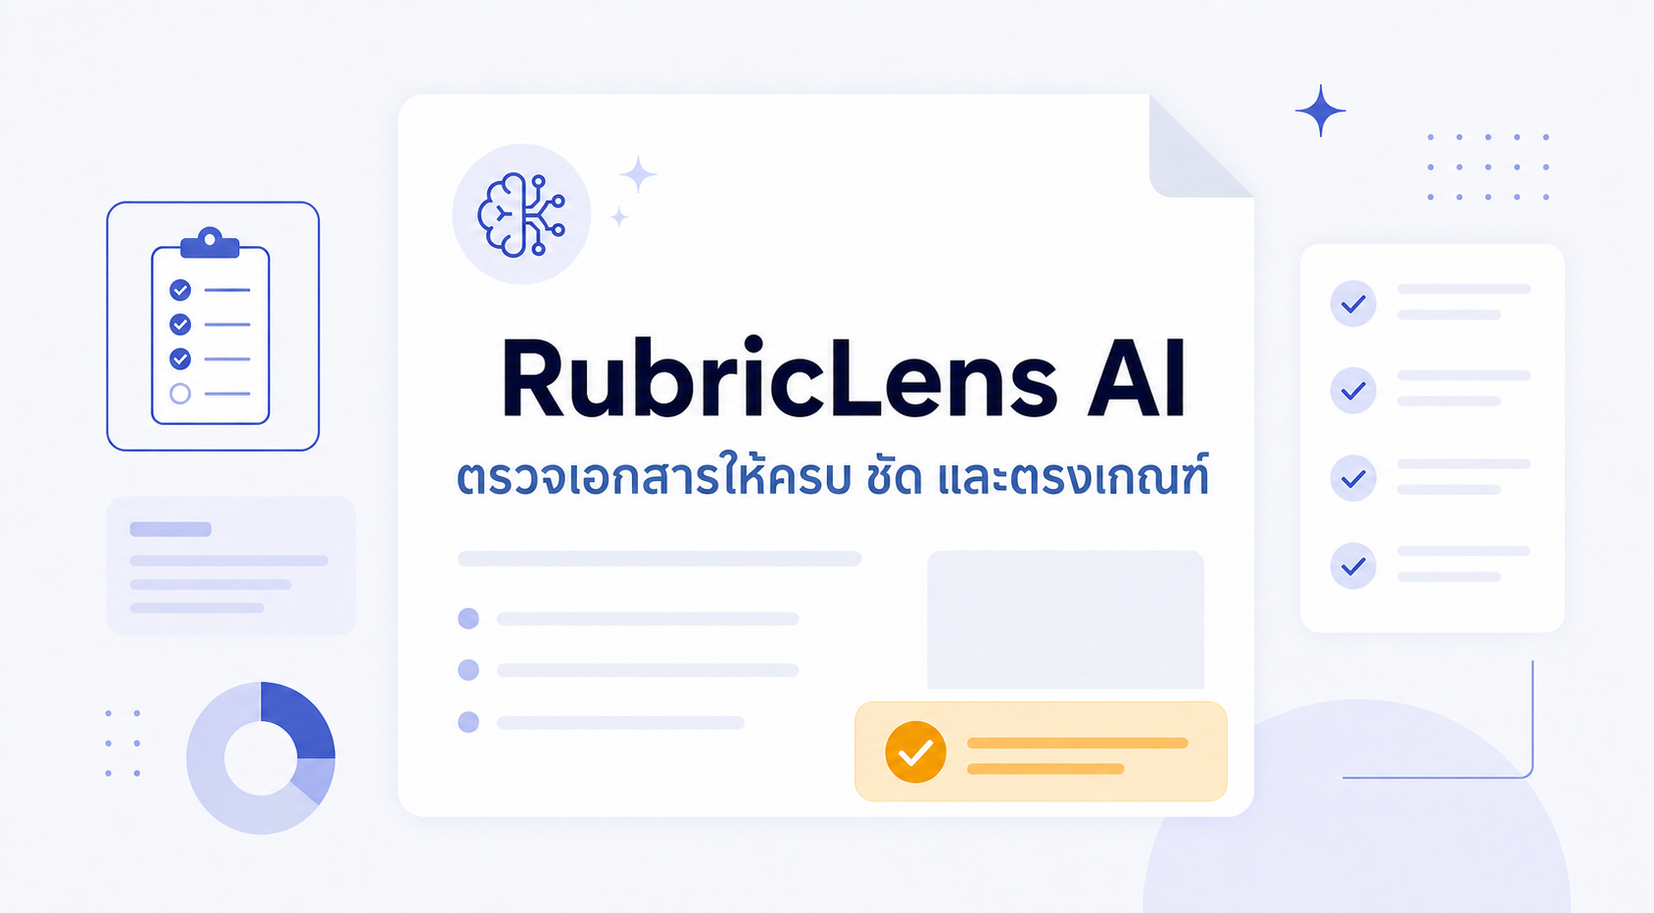
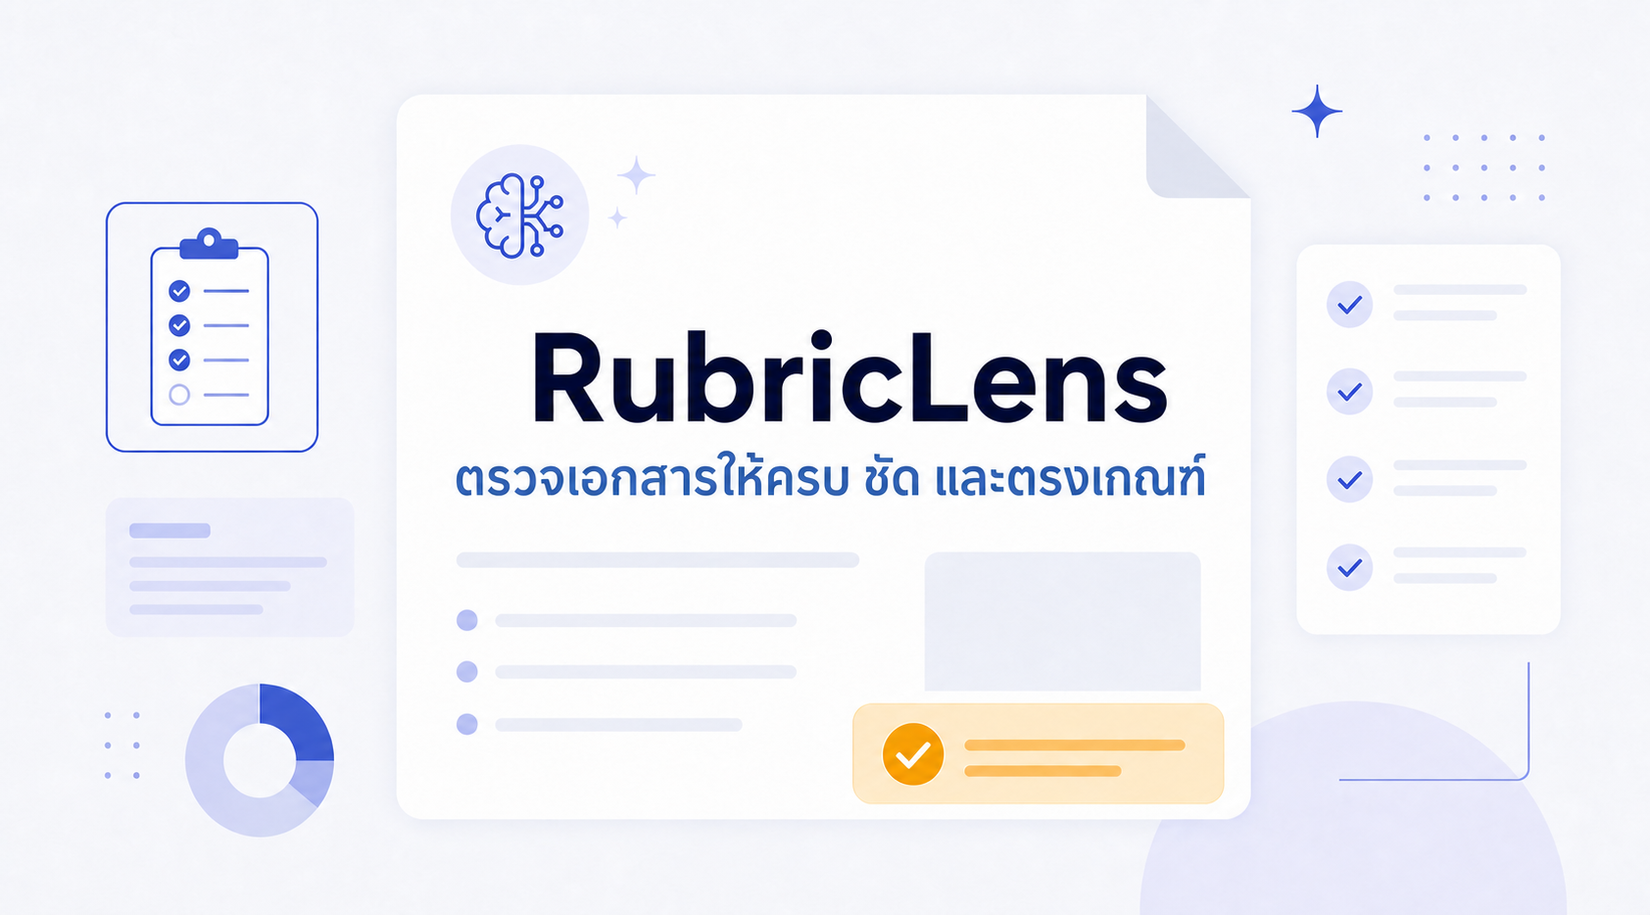
rebrand: rename project to RubricLens

diff --git a/index.html b/index.html
@@ -4,29 +4,29 @@
     <meta charset="UTF-8" />
     <link rel="icon" type="image/svg+xml" href="/favicon.svg" />
     <meta name="viewport" content="width=device-width, initial-scale=1.0" />
-    <meta name="description" content="RubricLens AI ช่วยตรวจรายงานทั่วไป โครงงาน และรายงานวิจัยให้ครบ ชัด และตรงเกณฑ์ พร้อมเหตุผล หลักฐาน และคำแนะนำเบื้องต้น" />
+    <meta name="description" content="RubricLens ช่วยตรวจรายงานทั่วไป โครงงาน และรายงานวิจัยให้ครบ ชัด และตรงเกณฑ์ พร้อมเหตุผล หลักฐาน และคำแนะนำเบื้องต้น" />
     <meta name="robots" content="index, follow" />
     <meta name="theme-color" content="#f8fafc" />
-    <link rel="canonical" href="https://reportcheckxd.pages.dev/" />
+    <link rel="canonical" href="https://rubriclens.pages.dev/" />
     <meta property="og:type" content="website" />
     <meta property="og:locale" content="th_TH" />
-    <meta property="og:site_name" content="RubricLens AI" />
-    <meta property="og:title" content="RubricLens AI — ตรวจเอกสารให้ครบ ชัด และตรงเกณฑ์" />
+    <meta property="og:site_name" content="RubricLens" />
+    <meta property="og:title" content="RubricLens — ตรวจเอกสารให้ครบ ชัด และตรงเกณฑ์" />
     <meta property="og:description" content="ผู้ช่วย AI สำหรับตรวจรายงานทั่วไป โครงงาน และรายงานวิจัยตามเกณฑ์เฉพาะประเภท" />
-    <meta property="og:url" content="https://reportcheckxd.pages.dev/" />
-    <meta property="og:image" content="https://reportcheckxd.pages.dev/og.png" />
-    <meta property="og:image:alt" content="RubricLens AI ตรวจเอกสารให้ครบ ชัด และตรงเกณฑ์" />
+    <meta property="og:url" content="https://rubriclens.pages.dev/" />
+    <meta property="og:image" content="https://rubriclens.pages.dev/og.png" />
+    <meta property="og:image:alt" content="RubricLens ตรวจเอกสารให้ครบ ชัด และตรงเกณฑ์" />
     <meta name="twitter:card" content="summary_large_image" />
-    <meta name="twitter:title" content="RubricLens AI — ตรวจเอกสารให้ครบ ชัด และตรงเกณฑ์" />
+    <meta name="twitter:title" content="RubricLens — ตรวจเอกสารให้ครบ ชัด และตรงเกณฑ์" />
     <meta name="twitter:description" content="ผู้ช่วย AI สำหรับตรวจรายงานทั่วไป โครงงาน และรายงานวิจัยตามเกณฑ์เฉพาะประเภท" />
-    <meta name="twitter:image" content="https://reportcheckxd.pages.dev/og.png" />
-    <title>RubricLens AI | ตรวจเอกสารให้ครบ ชัด และตรงเกณฑ์</title>
+    <meta name="twitter:image" content="https://rubriclens.pages.dev/og.png" />
+    <title>RubricLens | ตรวจเอกสารให้ครบ ชัด และตรงเกณฑ์</title>
     <script type="application/ld+json">
       {
         "@context": "https://schema.org",
         "@type": "WebApplication",
-        "name": "RubricLens AI",
-        "url": "https://reportcheckxd.pages.dev/",
+        "name": "RubricLens",
+        "url": "https://rubriclens.pages.dev/",
         "applicationCategory": "EducationalApplication",
         "operatingSystem": "Web",
         "inLanguage": "th",

diff --git a/src/App.tsx b/src/App.tsx
@@ -19,8 +19,8 @@ import { analyzeReferences } from './lib/references'
 import { cloneRubricTemplate, DEFAULT_RUBRIC_TEMPLATE_ID, getDefaultRubricTemplate, getRubricTemplatesForDocumentType, inferDocumentTypeFromTemplate, rubricSchema, rubricSectionSchema, rubricTemplates, type RubricSection } from './lib/rubric'
 import { DOCUMENT_TYPES, documentTypeDefinitions, getDocumentTypeDefinition, type DocumentType } from '../shared/document-types'
 
-const DRAFT_KEY = 'report-checker-session-draft-v1'
-const PRODUCTION_API_BASE_URL = 'https://report-checker-ai-api.oomzazato01.workers.dev/api'
+const DRAFT_KEY = 'rubriclens-session-draft-v1'
+const PRODUCTION_API_BASE_URL = 'https://rubriclens-api.oomzazato01.workers.dev/api'
 
 function usesMockAnalysis() {
   const configured = import.meta.env.VITE_USE_MOCK_ANALYSIS
@@ -69,7 +69,7 @@ const stateLabels: Record<AnalysisState, string> = {
 const analysisSteps = ['ตรวจขนาดเอกสาร', 'เตรียมเกณฑ์การตรวจ', 'ส่งข้อมูลผ่านระบบที่ปลอดภัย', 'AI อ่านเอกสาร', 'ตรวจความครบถ้วนของคำตอบ', 'รวมผลแต่ละหัวข้อ', 'คำนวณคะแนนรวม']
 
 function getAnonymousToken() {
-  const key = 'report-checker-anonymous-token'
+  const key = 'rubriclens-anonymous-token'
   const token = crypto.randomUUID()
   try {
     const existing = window.localStorage.getItem(key)
@@ -543,7 +543,7 @@ function App() {
       <div className="mx-auto max-w-5xl px-4 py-5 sm:px-6 sm:py-8">
         <header className="mb-5 flex flex-col gap-3 border-b border-slate-200 pb-4 sm:flex-row sm:items-center sm:justify-between">
           <div className="min-w-0">
-            <h1 className="text-2xl font-semibold tracking-tight text-slate-950 sm:text-3xl">RubricLens AI</h1>
+            <h1 className="text-2xl font-semibold tracking-tight text-slate-950 sm:text-3xl">RubricLens</h1>
             <p className="mt-1 max-w-2xl text-sm leading-6 text-slate-600 sm:text-base sm:leading-7"><span className="font-medium text-slate-800">ตรวจเอกสารให้ครบ ชัด และตรงเกณฑ์</span> — รองรับรายงานทั่วไป โครงงาน และรายงานวิจัย</p>
           </div>
           <div className="flex flex-wrap items-center gap-2">

diff --git a/worker/src/index.test.ts b/worker/src/index.test.ts
@@ -156,14 +156,14 @@ describe('POST /api/analyze', () => {
   })
 
   it('allows browser CORS only for the configured Pages origins', async () => {
-    const env = { MOCK_ANALYSIS: 'true', ALLOWED_ORIGIN: 'https://reportcheckxd.pages.dev' } satisfies AnalysisEnv
-    const allowed = await worker.fetch(new Request('https://local.test/api/analyze', { method: 'OPTIONS', headers: { Origin: 'https://reportcheckxd.pages.dev' } }), env)
-    const preview = await worker.fetch(new Request('https://local.test/api/analyze', { method: 'OPTIONS', headers: { Origin: 'https://abc123.reportcheckxd.pages.dev' } }), env)
+    const env = { MOCK_ANALYSIS: 'true', ALLOWED_ORIGIN: 'https://rubriclens.pages.dev' } satisfies AnalysisEnv
+    const allowed = await worker.fetch(new Request('https://local.test/api/analyze', { method: 'OPTIONS', headers: { Origin: 'https://rubriclens.pages.dev' } }), env)
+    const preview = await worker.fetch(new Request('https://local.test/api/analyze', { method: 'OPTIONS', headers: { Origin: 'https://abc123.rubriclens.pages.dev' } }), env)
     const oldPagesDomain = await worker.fetch(new Request('https://local.test/api/analyze', { method: 'OPTIONS', headers: { Origin: 'https://reportzcheckxai.pages.dev' } }), env)
     const rejected = await worker.fetch(new Request('https://local.test/api/analyze', { method: 'OPTIONS', headers: { Origin: 'https://untrusted.example' } }), env)
-    expect(allowed.headers.get('access-control-allow-origin')).toBe('https://reportcheckxd.pages.dev')
+    expect(allowed.headers.get('access-control-allow-origin')).toBe('https://rubriclens.pages.dev')
     expect(allowed.headers.get('access-control-allow-headers')).toContain(API_VERSION_HEADER.toLowerCase())
-    expect(preview.headers.get('access-control-allow-origin')).toBe('https://abc123.reportcheckxd.pages.dev')
+    expect(preview.headers.get('access-control-allow-origin')).toBe('https://abc123.rubriclens.pages.dev')
     expect(oldPagesDomain.headers.get('access-control-allow-origin')).toBeNull()
     expect(rejected.headers.get('access-control-allow-origin')).toBeNull()
   })

diff --git a/src/App.test.tsx b/src/App.test.tsx
@@ -115,18 +115,18 @@ describe('App', () => {
   })
 
   it('restores a draft only from the current browser session', () => {
-    window.sessionStorage.setItem('report-checker-session-draft-v1', JSON.stringify({
+    window.sessionStorage.setItem('rubriclens-session-draft-v1', JSON.stringify({
       reportText: 'ร่างรายงานในแท็บนี้', templateId: 'project-th-v1',
       rubric: [{ id: 'intro', title: 'บทนำ', criteria: 'มีบริบท', weight: 1, enabled: true }],
     }))
     render(<App />)
     expect(screen.getByLabelText('ข้อความเอกสาร')).toHaveValue('ร่างรายงานในแท็บนี้')
     expect(screen.getByLabelText('ประเภทงาน')).toHaveValue('project')
-    expect(window.localStorage.getItem('report-checker-session-draft-v1')).toBeNull()
+    expect(window.localStorage.getItem('rubriclens-session-draft-v1')).toBeNull()
   })
 
   it('repairs a draft whose document type contradicts its known template', () => {
-    window.sessionStorage.setItem('report-checker-session-draft-v1', JSON.stringify({
+    window.sessionStorage.setItem('rubriclens-session-draft-v1', JSON.stringify({
       reportText: 'ร่างที่บันทึกจากสถานะไม่สอดคล้อง',
       documentType: 'research-report',
       templateId: 'project-th-v1',
@@ -141,7 +141,7 @@ describe('App', () => {
   })
 
   it('replaces an unknown saved template and its stale rubric with the document-type default', async () => {
-    window.sessionStorage.setItem('report-checker-session-draft-v1', JSON.stringify({
+    window.sessionStorage.setItem('rubriclens-session-draft-v1', JSON.stringify({
       reportText: 'ร่างจากเกณฑ์รุ่นที่เลิกใช้แล้ว',
       documentType: 'research-report',
       templateId: 'retired-research-template',

diff --git a/src/lib/analysis.test.ts b/src/lib/analysis.test.ts
@@ -20,7 +20,7 @@ describe('analysis result handling', () => {
     const result = createMockAnalysis(rubric.sections, analyzeReferences('บทนำ'), rubric.version, rubric.documentType)
     const text = formatAnalysisResult(result)
     expect(text).toContain('คะแนนรวม:')
-    expect(text).toContain('ผลตรวจรายงานทั่วไป จาก RubricLens AI')
+    expect(text).toContain('ผลตรวจรายงานทั่วไป จาก RubricLens')
     expect(text).toContain('ประเภทงาน: รายงานทั่วไป')
     expect(text).toContain('ความสอดคล้องของเอกสาร (วัตถุประสงค์ · เนื้อหา · การวิเคราะห์ · สรุปผล):')
     expect(text).toContain('ข้อมูลหรือหลักฐานที่อาจยังขาด:')
@@ -30,7 +30,7 @@ describe('analysis result handling', () => {
   it('names the project document type and its own consistency dimensions in the export', () => {
     const rubric = cloneRubricTemplate('project-th-v1')
     const text = formatAnalysisResult(createMockAnalysis(rubric.sections, analyzeReferences('บทนำ'), rubric.version, rubric.documentType))
-    expect(text).toContain('ผลตรวจโครงงาน จาก RubricLens AI')
+    expect(text).toContain('ผลตรวจโครงงาน จาก RubricLens')
     expect(text).toContain('ประเภทงาน: โครงงาน')
     expect(text).toContain('ความสอดคล้องของเอกสาร (ปัญหา · วัตถุประสงค์ · วิธีทำ · ผลงาน · การทดสอบ · สรุปผล):')
   })

diff --git a/e2e/report-checker.spec.ts b/e2e/report-checker.spec.ts
@@ -52,7 +52,7 @@ test.beforeEach(async ({ page }) => {
 })
 
 test('a user sends text for analysis with one primary click', async ({ page }) => {
-  await expect(page.getByRole('heading', { name: 'RubricLens AI', level: 1 })).toBeVisible()
+  await expect(page.getByRole('heading', { name: 'RubricLens', level: 1 })).toBeVisible()
   await expect(page.getByText(/ตรวจเอกสารให้ครบ ชัด และตรงเกณฑ์/)).toBeVisible()
   await page.getByLabel('ข้อความเอกสาร').fill('บทนำ\nรายงานทดสอบสำหรับ browser smoke test ซึ่งมีรายละเอียดเพียงพอสำหรับตรวจเส้นทางการใช้งานตั้งแต่ต้นจนจบ')
   await page.getByRole('button', { name: 'ตรวจรายงาน' }).click()

diff --git a/src/lib/analysis.ts b/src/lib/analysis.ts
@@ -227,7 +227,7 @@ export function createMockAnalysis(sections: RubricSection[], referenceSummary: 
 export function formatAnalysisResult(result: AnalysisResult) {
   const documentType = getDocumentTypeDefinition(result.documentType)
   const lines = [
-    `${documentType.resultTitle} จาก RubricLens AI (ผลเบื้องต้น)`,
+    `${documentType.resultTitle} จาก RubricLens (ผลเบื้องต้น)`,
     `ประเภทงาน: ${documentType.label}`,
     `คะแนนรวม: ${formatOverallScore(result)}`,
     `หัวข้อที่ใช้ประเมิน: ${result.scoreSummary.applicableSectionCount} · หัวข้อที่ไม่เกี่ยวข้อง: ${result.scoreSummary.notApplicableSectionCount}`,

diff --git a/worker/env.d.ts b/worker/env.d.ts
@@ -1,5 +1,5 @@
 /* eslint-disable */
-// Generated by Wrangler by running `wrangler types worker/env.d.ts` (hash: 93ee8aef01db159fdcaf3ea0c2bb1373)
+// Generated by Wrangler by running `wrangler types worker/env.d.ts` (hash: cc4af28fcbc1220984d37d782a1df7db)
 // Runtime types generated with workerd@1.20260730.1 2026-08-01 nodejs_compat
 interface __BaseEnv_Env {
 	RATE_LIMIT: KVNamespace;
@@ -9,7 +9,7 @@ interface __BaseEnv_Env {
 	MOCK_ANALYSIS: "false";
 	DAILY_BUDGET_LIMIT: "100";
 	DAILY_TOKEN_BUDGET: "2000000";
-	ALLOWED_ORIGIN: "https://reportcheckxd.pages.dev";
+	ALLOWED_ORIGIN: "https://rubriclens.pages.dev";
 	GEMINI_API_KEY: string;
 }
 declare namespace Cloudflare {

diff --git a/.testsprite/code/mobile-layout.py b/.testsprite/code/mobile-layout.py
@@ -4,7 +4,7 @@ from playwright import async_api
 from playwright.async_api import expect
 
 
-TARGET_URL = "https://reportcheckxd.pages.dev/"
+TARGET_URL = "https://rubriclens.pages.dev/"
 MOBILE_WIDTH = 390
 MOBILE_HEIGHT = 844
 
@@ -36,9 +36,9 @@ async def run_test():
 
         await page.goto(TARGET_URL, wait_until="domcontentloaded")
 
-        heading = page.get_by_role("heading", name="RubricLens AI", level=1)
+        heading = page.get_by_role("heading", name="RubricLens", level=1)
         await expect(heading).to_be_visible()
-        assert await heading.text_content() == "RubricLens AI"
+        assert await heading.text_content() == "RubricLens"
 
         layout = await page.evaluate(
             """

diff --git a/docs/deployment-runbook.md b/docs/deployment-runbook.md
@@ -1,6 +1,6 @@
 # Deployment runbook
 
-Runbook สำหรับ deploy RubricLens AI ขึ้น production (Cloudflare Worker + Cloudflare Pages)
+Runbook สำหรับ deploy RubricLens ขึ้น production (Cloudflare Worker + Cloudflare Pages)
 
 > **ต้องได้รับคำยืนยันจากเจ้าของโปรเจกต์ก่อนรันขั้นตอนที่ deploy จริงทุกครั้ง** ขั้นตอนที่ 0–1 รันได้อย่างปลอดภัยโดยไม่เปลี่ยนอะไรใน production
 
@@ -67,7 +67,7 @@ npx wrangler deploy
 ### 3. Health and contract smoke
 
 ```bash
-curl -s https://report-checker-ai-api.oomzazato01.workers.dev/api/health
+curl -s https://rubriclens-api.oomzazato01.workers.dev/api/health
 ```
 
 ต้องได้:
@@ -82,7 +82,7 @@ curl -s https://report-checker-ai-api.oomzazato01.workers.dev/api/health
 ตรวจ CORS และ method guard เพิ่ม:
 
 ```bash
-curl -s -o /dev/null -w '%{http_code}\n' https://report-checker-ai-api.oomzazato01.workers.dev/api/analyze   # ต้องได้ 405
+curl -s -o /dev/null -w '%{http_code}\n' https://rubriclens-api.oomzazato01.workers.dev/api/analyze   # ต้องได้ 405
 ```
 
 ก่อน deploy Pages ให้เปิด Pages รุ่นเดิมและวิเคราะห์ข้อความสังเคราะห์หนึ่งครั้ง เพื่อตรวจว่า compatibility Worker คืน v0 shape ที่ UI เดิมอ่านได้ ห้ามใช้เอกสารจริงหรือข้อมูลส่วนบุคคลในการ smoke test
@@ -91,16 +91,16 @@ curl -s -o /dev/null -w '%{http_code}\n' https://report-checker-ai-api.oomzazato
 
 ```bash
 npm run build
-npx wrangler pages deploy dist --project-name reportcheckxd --branch main
+npx wrangler pages deploy dist --project-name rubriclens --branch main
 ```
 
 บันทึก deployment id ที่ได้ และ deployment id ของรุ่นก่อนหน้า
 
 ### 5. Browser smoke
 
-เปิด https://reportcheckxd.pages.dev/ แล้วตรวจด้วยมือ:
+เปิด https://rubriclens.pages.dev/ แล้วตรวจด้วยมือ:
 
-1. หน้าโหลดได้ และหัวข้อ “RubricLens AI” แสดงผล
+1. หน้าโหลดได้ และหัวข้อ “RubricLens” แสดงผล
 2. เปลี่ยนประเภทงานเป็นโครงงานและรายงานวิจัย แล้วเกณฑ์เปลี่ยนตาม
 3. วางข้อความสังเคราะห์แล้วกดตรวจ จนได้ผลจริงจาก Worker
 4. ผลแสดงคะแนนรวม หลักฐาน และ “สิ่งที่ควรแก้ก่อนส่ง”
@@ -115,7 +115,7 @@ npx wrangler pages deploy dist --project-name reportcheckxd --branch main
 ```bash
 testsprite --version
 testsprite auth whoami
-testsprite test run --all --project <project-id> --target-url https://reportcheckxd.pages.dev --wait --timeout 600 --output json
+testsprite test run --all --project <project-id> --target-url https://rubriclens.pages.dev --wait --timeout 600 --output json
 ```
 
 เมื่อมี failure ให้ดาวน์โหลด artifact มาตรวจก่อนแก้:
@@ -147,17 +147,17 @@ npx wrangler rollback --message "rollback: <เหตุผลสั้น ๆ>"
 ### Pages rollback
 
 ```bash
-npx wrangler pages deployment list --project-name reportcheckxd
+npx wrangler pages deployment list --project-name rubriclens
 ```
 
-จากนั้นใน Cloudflare Dashboard → Workers & Pages → reportcheckxd → Deployments เลือก deployment ที่ต้องการแล้วกด **Rollback**
+จากนั้นใน Cloudflare Dashboard → Workers & Pages → rubriclens → Deployments เลือก deployment ที่ต้องการแล้วกด **Rollback**
 
 Pages เก็บ deployment เก่าไว้ จึง rollback ได้ทันทีโดยไม่ต้อง build ใหม่ หากต้องการ rollback ผ่าน CLI ให้ deploy artifact ของ commit เดิมซ้ำ:
 
 ```bash
 git checkout <commit-เดิม>
 npm ci && npm run build
-npx wrangler pages deploy dist --project-name reportcheckxd --branch main
+npx wrangler pages deploy dist --project-name rubriclens --branch main
 ```
 
 ### ลำดับการ rollback

diff --git a/README.md b/README.md
@@ -1,19 +1,19 @@
-# RubricLens AI
+# RubricLens
 
 > ตรวจเอกสารให้ครบ ชัด และตรงเกณฑ์ ด้วย React, Cloudflare Workers และ Gemini
 
-[![Live demo](https://img.shields.io/badge/demo-reportcheckxd.pages.dev-2563eb?style=flat-square)](https://reportcheckxd.pages.dev/)
+[![Live demo](https://img.shields.io/badge/demo-rubriclens.pages.dev-2563eb?style=flat-square)](https://rubriclens.pages.dev/)
 [![Tests](https://img.shields.io/badge/local%20tests-106%20unit%20%7C%2072%20E2E-16a34a?style=flat-square)](docs/testing-report.md)
 
-![RubricLens AI preview](public/og.png)
+![RubricLens preview](public/og.png)
 
 ## Project overview
 
-RubricLens AI เป็น single-page web app สำหรับตรวจเอกสารตามเกณฑ์เฉพาะประเภท ผู้ใช้เลือกระหว่างรายงานทั่วไป โครงงาน และรายงานวิจัย แล้ววางข้อความหรืออัปโหลด PDF เพื่อรับผลตรวจพร้อมเหตุผล หลักฐานที่พบ สิ่งที่อาจยังขาด และคำแนะนำใน workflow เดียว
+RubricLens เป็น single-page web app สำหรับตรวจเอกสารตามเกณฑ์เฉพาะประเภท ผู้ใช้เลือกระหว่างรายงานทั่วไป โครงงาน และรายงานวิจัย แล้ววางข้อความหรืออัปโหลด PDF เพื่อรับผลตรวจพร้อมเหตุผล หลักฐานที่พบ สิ่งที่อาจยังขาด และคำแนะนำใน workflow เดียว
 
 โปรเจกต์นี้ออกแบบให้เป็น **ผู้ช่วยทบทวน ไม่ใช่ผู้ตัดสิน** ผลจาก AI จึงแสดงหลักฐาน สิ่งที่อาจขาด และคำแนะนำเพื่อให้ผู้ใช้ตรวจเทียบกับรายงานต้นฉบับอีกครั้ง
 
-**Live demo:** [reportcheckxd.pages.dev](https://reportcheckxd.pages.dev/)
+**Live demo:** [rubriclens.pages.dev](https://rubriclens.pages.dev/)
 
 ## Why this project is interesting
 

diff --git a/docs/archive/legacy-system-test-report-2026-08-01.md b/docs/archive/legacy-system-test-report-2026-08-01.md
@@ -1,9 +1,9 @@
 # รายงานตรวจสอบระบบช่วยตรวจโครงงานและรายงานด้วย AI
 
 วันที่ตรวจ: 1 สิงหาคม 2026  
-โปรเจกต์: `report-checker-ai`  
+โปรเจกต์: `rubriclens-ai`
 Commit ที่ตรวจ: `461212b` (`feat: migrate to Gemini 3.6 Flash`)  
-Git remote: `https://github.com/WayuOHm99/report-checker-ai.git`
+Git remote: `https://github.com/WayuOHm99/rubriclens-ai.git`
 
 ## 1. วัตถุประสงค์
 
